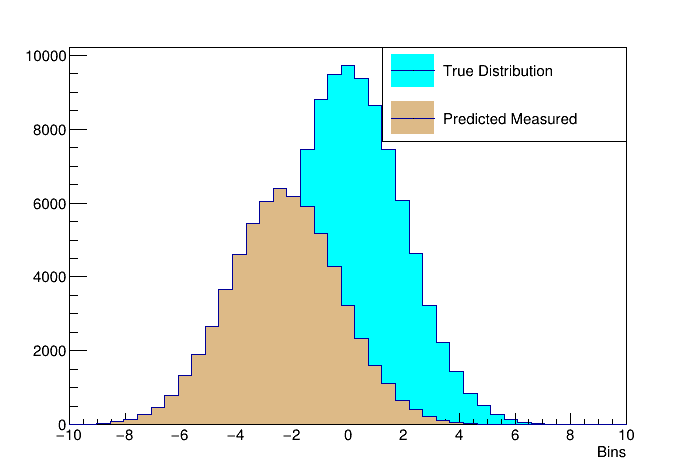
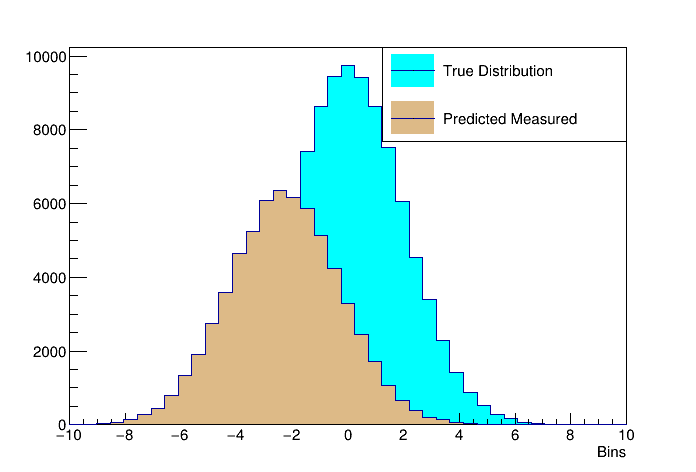
Added seed to the generator.

diff --git a/studies/generator/generator.py b/studies/generator/generator.py
@@ -124,9 +124,12 @@ def main():
 
     # Fill the inputs
     INFO("Filling the histograms...")
-    if any(
-        d in args.distr for d in ["normal", "breit-wigner"]
-    ):  # case for standard distributions
+
+    # Case for standard distributions
+    if any(d in args.distr for d in ["normal", "breit-wigner"]):
+
+        # Generate data
+        r.gRandom.SetSeed(12345)
         for i in tqdm(range(args.samples)):
             xt = 0
             if args.distr == "breit-wigner":
@@ -140,7 +143,12 @@ def main():
                 g0.Fill(x)
             else:
                 response.Miss(xt)
-    elif any(d in args.distr for d in ["double-peaked"]):  # case for double peaked
+
+    # Case for double peaked
+    elif any(d in args.distr for d in ["double-peaked"]):
+        
+        # Generate data
+        r.gRandom.SetSeed(12345)
         for i in tqdm(range(5000)):
             xt = r.gRandom.Gaus(2, 1.5)
             f0.Fill(xt)
